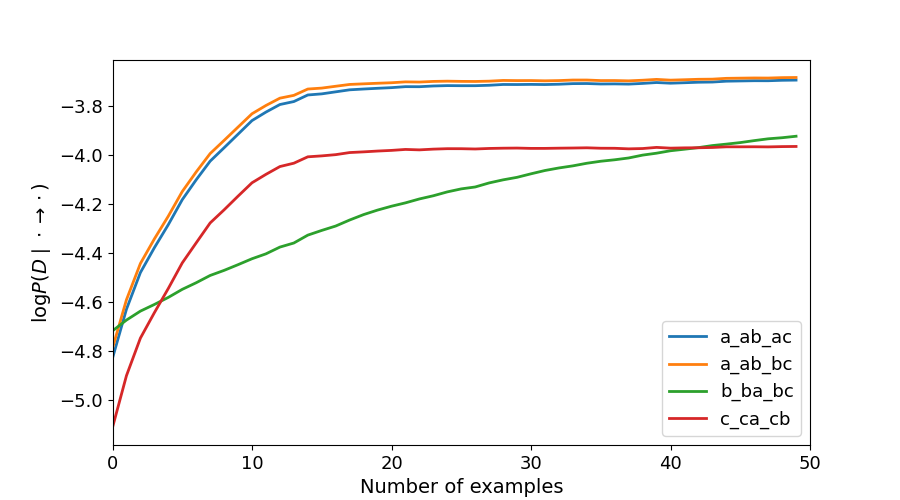
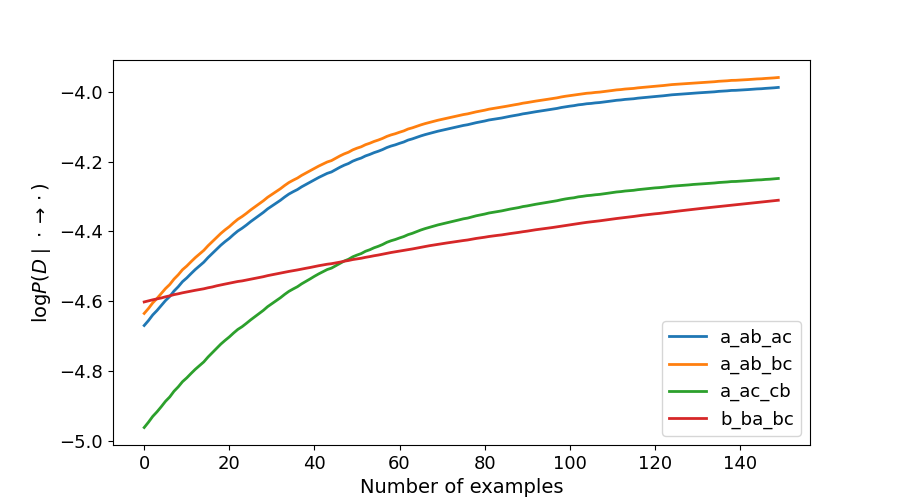
update plots

diff --git a/project/three_variables_all_causal/util.py b/project/three_variables_all_causal/util.py
@@ -45,12 +45,12 @@ def plot_loss(losses, model, image_output_path=None):
     ax = plt.subplot(1, 1, 1)
     count = 0
     for model_name in model.model_names:
-        ax.plot(losses_50[count], color="C{}".format(count), label=model_name, lw=2)
+        lw = 2 if model_name == "a_ab_bc" else 2 
+        ax.plot(losses_50[count], color="C{}".format(count), label=model_name, lw=lw)
         # ax.fill_between(
         #     np.arange(num_episodes), losses_25[count], losses_75[count], color="C{}".format(count), alpha=0.2
         # )
         count += 1
-    ax.set_xlim([0, 50])
     ax.tick_params(axis="both", which="major", labelsize=13)
     ax.legend(loc=4, prop={"size": 13})
     ax.set_xlabel("Number of examples", fontsize=14)

diff --git a/project/three_variables_all_causal/transfer_adaption.py b/project/three_variables_all_causal/transfer_adaption.py
@@ -9,13 +9,13 @@ from models import StructuralModel
 N = 10
 model = StructuralModel(N, dtype=torch.float64)
 
-num_episodes = 50
+num_episodes = 150
 batch_size = 100  # 1
 num_test = 5000
-num_training = 10 # 10  # 100
-num_transfers = 10  # 100
+num_training = 1 # 10  # 100
+num_transfers = 1  # 100
 
-optimizer = torch.optim.SGD(model.modules_parameters(), lr=1.0)
+optimizer = torch.optim.SGD(model.modules_parameters(), lr=0.05)
 
 losses = np.zeros((model.n_models, num_training, num_transfers, num_episodes))
 
